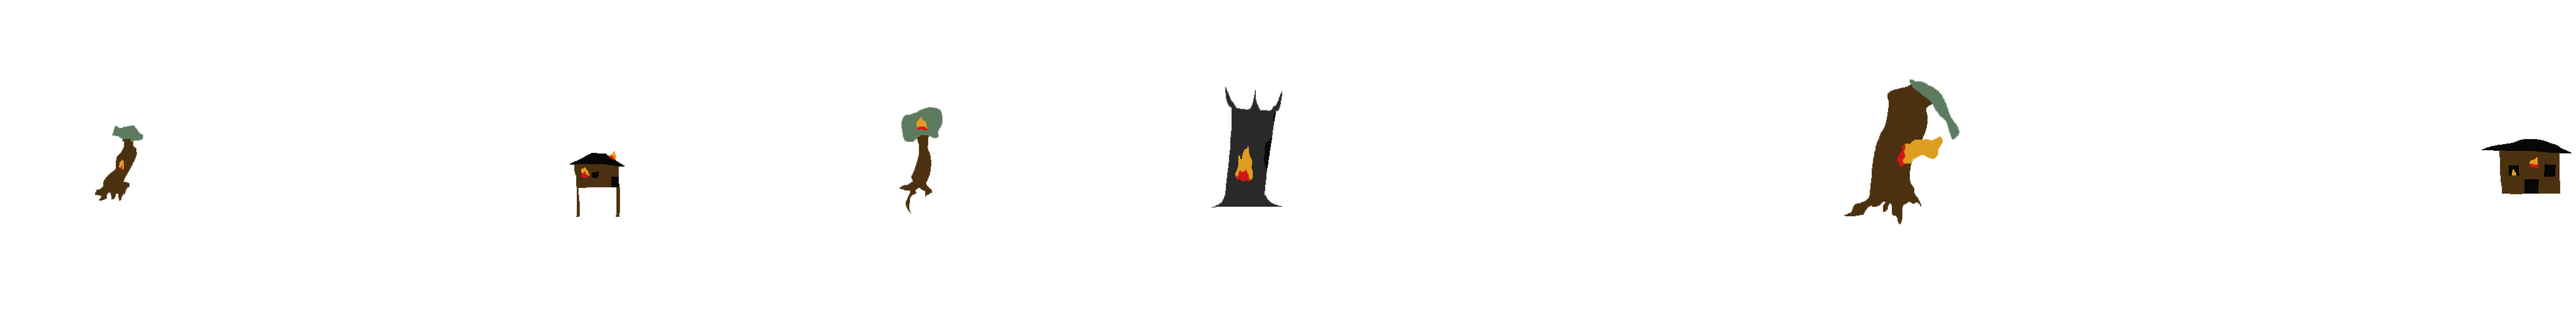
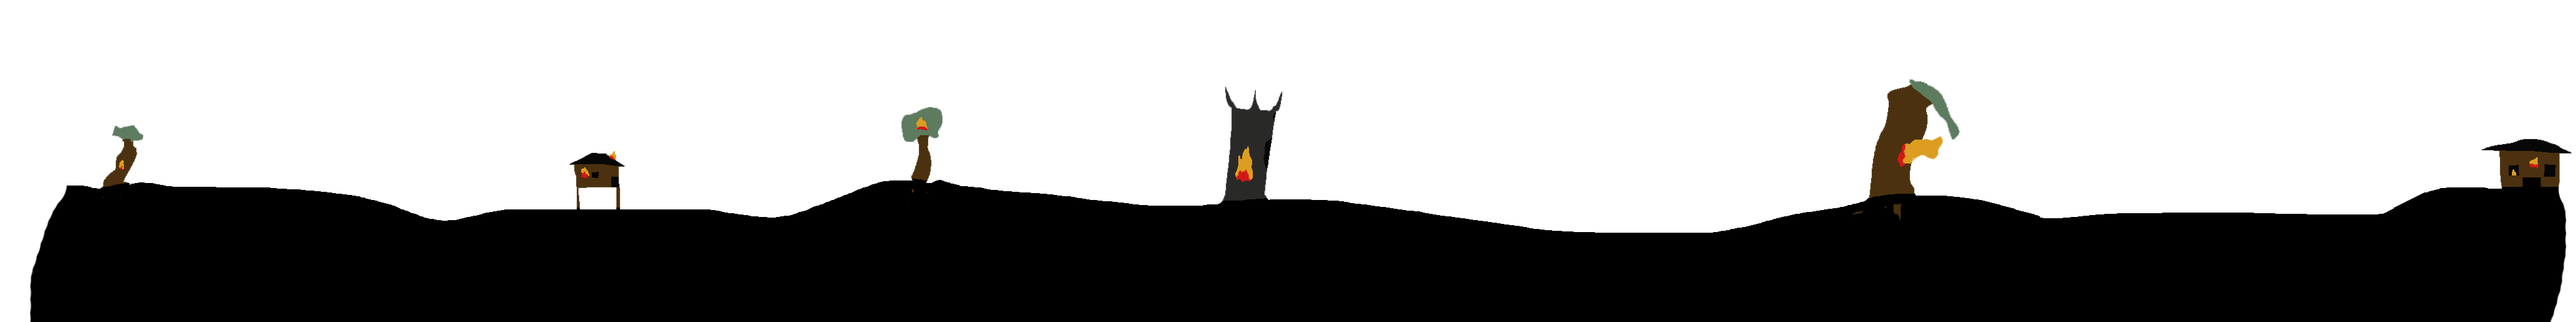
final finished

diff --git a/vgd126/js/data/cave.js b/vgd126/js/data/cave.js
@@ -2,14 +2,14 @@ var x=false;
 var caveData ={
 	info:{
 		layout:[
-			[0,8,8,8,8,8,8,8,8,8,8,8,8,8,8,8,8,8,8,8,8,8,8,8,8,8,8,8,8,8,8,8,8,8,2],
-			[2,8,1,8,1,1,8,1,1,1,1,1,1,8,8,1,8,8,1,1,1,1,1,1,1,1,1,1,1,1,1,1,1,1,2],
-			[2,x,x,7,x,x,7,x,x,x,x,x,x,7,7,x,1,1,x,x,x,x,x,x,x,x,x,x,x,x,x,x,x,x,2],
-			[6,x,x,x,x,x,x,x,x,x,x,x,x,x,x,x,x,x,x,x,x,x,x,x,x,x,x,x,x,x,x,x,x,x,2],
-			[6,x,x,x,x,x,x,x,x,x,x,x,x,x,x,x,x,x,x,x,x,x,x,x,x,x,x,x,x,x,x,x,x,x,2],
-			[5,x,x,x,x,x,x,x,x,x,x,x,x,x,x,x,x,x,x,x,x,x,x,x,x,x,x,x,x,x,x,x,x,x,2],
-			[x,x,x,x,x,x,x,x,x,x,x,x,x,x,x,x,x,x,x,x,x,x,x,x,x,x,x,x,x,x,x,x,x,x,2],
-			[x,x,x,x,x,x,x,x,x,x,x,x,x,x,x,x,x,x,x,x,x,x,x,x,x,x,x,x,x,x,x,x,x,x,2]
+			[2,4,4,4,4,4,4,4,4,4,4,4,4,4,4,4,4,4,4,4,4,4,4,4,4,4,4,4,4,4,4,4,4,4,4],
+			[3,1,1,1,1,1,1,1,1,1,1,1,1,1,1,1,1,1,1,1,1,1,1,1,1,1,1,1,1,1,1,1,1,1,3],
+			[3,x,x,x,x,x,x,x,x,x,x,x,x,x,x,x,x,x,x,x,x,x,x,x,x,x,x,x,x,x,x,x,x,x,3],
+			[3,x,x,x,x,x,x,x,x,x,x,x,x,x,x,x,x,x,x,x,x,x,x,x,x,x,x,x,x,x,x,x,x,x,3],
+			[1,x,x,x,x,x,x,x,x,x,x,x,x,x,x,x,x,x,x,x,x,x,x,x,x,x,x,x,x,x,x,x,x,x,3],
+			[x,x,x,x,x,x,x,x,x,x,x,x,x,x,x,x,x,x,x,x,x,x,x,x,x,x,x,x,x,x,x,x,x,x,3],
+			[x,x,x,x,x,x,x,x,x,x,x,x,x,x,x,x,x,x,x,x,x,x,x,x,x,x,x,x,x,x,x,x,x,x,3],
+			[x,x,x,x,x,x,x,x,x,x,x,x,x,x,x,x,x,x,x,x,x,x,x,x,x,x,x,x,x,x,x,x,x,x,3]
 			
 			
 		],
@@ -27,57 +27,38 @@ var caveData ={
 			{
 				fps:1,
 				cycle:false,
-				frames:[{width:64, height:64, startX:64, startY:0}]
-			},
-			{
-				fps:1,
-				cycle:false,
-				frames:[{width:64, height:64, startX:32, startY:0}]
-			},
-			{
-				fps:1,
-				cycle:false,
-				frames:[{width:64, height:64, startX:48, startY:0}]
+				frames:[{width:64, height:64, startX:0, startY:0}]
 			},
 			{
 				fps:1,
 				cycle:false,
 				frames:[{width:64, height:64, startX:64, startY:0}]
-			},
-			{
-				fps:1,
-				cycle:false,
-				frames:[{width:64, height:64, startX:80, startY:0}]
-			},
-			{
-				fps:1,
-				cycle:false,
-				frames:[{width:64, height:64, startX:96, startY:0}]
-			},
-			{
-				fps:1,
-				cycle:false,
-				frames:[{width:64, height:64, startX:112, startY:0}]
 			},
 			{
 				fps:1,
 				cycle:false,
 				frames:[{width:64, height:64, startX:128, startY:0}]
-			}
+			},
+			{
+				fps:1,
+				cycle:false,
+				frames:[{width:64, height:64, startX:192, startY:0}]
+			},
+			
 		]
 	}
 	var caveBackData ={
 		info:{
 			layout:[
-			[0,3,3,3,3,3,3,3,3,3,3,3,3,3,3,3,3,3,3,3,3,3,3,3,3,3,3,3,3,3,3,3,3,3,3],
-			[x,3,3,3,3,3,3,3,3,3,3,3,3,3,3,3,3,3,3,3,3,3,3,3,3,3,3,3,3,3,3,3,3,3,3],
-			[x,3,3,3,3,3,3,3,3,3,3,3,3,3,3,3,3,3,3,3,3,3,3,3,3,3,3,3,3,3,3,3,3,3,3],
-			[x,3,3,3,3,3,3,3,3,3,3,3,3,3,3,3,3,3,3,3,3,3,3,3,3,3,3,3,3,3,3,3,3,3,3],
-			[5,3,3,3,3,3,3,3,3,3,3,3,3,3,3,3,3,3,3,3,3,3,3,3,3,3,3,3,3,3,3,3,3,3,3],
-			[5,3,3,3,3,3,3,3,3,3,3,3,3,3,3,3,3,3,3,3,3,3,3,3,3,3,3,3,3,3,3,3,3,3,3],
-			[5,3,3,3,3,3,3,3,3,3,3,3,3,3,3,3,3,3,3,3,3,3,3,3,3,3,3,3,3,3,3,3,3,3,3],
+			[x,2,2,2,2,2,2,2,2,2,2,2,2,2,2,2,2,2,2,2,2,2,2,2,2,2,2,2,2,2,2,2,2,2,2],
+			[x,2,2,2,2,2,2,2,2,2,2,2,2,2,2,2,2,2,2,2,2,2,2,2,2,2,2,2,2,2,2,2,2,2,2],
+			[x,2,2,2,2,2,2,2,2,2,2,2,2,2,2,2,2,2,2,2,2,2,2,2,2,2,2,2,2,2,2,2,2,2,2],
+			[x,2,2,2,2,2,2,2,2,2,2,2,2,2,2,2,2,2,2,2,2,2,2,2,2,2,2,2,2,2,2,2,2,2,2],
+			[1,2,2,2,2,2,2,2,2,2,2,2,2,2,2,2,2,2,2,2,2,2,2,2,2,2,2,2,2,2,2,2,2,2,2],
+			[1,2,2,2,2,2,2,2,2,2,2,2,2,2,2,2,2,2,2,2,2,2,2,2,2,2,2,2,2,2,2,2,2,2,2],
+			[1,2,2,2,2,2,2,2,2,2,2,2,2,2,2,2,2,2,2,2,2,2,2,2,2,2,2,2,2,2,2,2,2,2,2],
 			],
-			src:`images/cave.png`,
+			src:`images/cavesprites.png`,
 		},
 		states:
 		[		
@@ -92,43 +73,14 @@ var caveData ={
 				{
 					fps:1,
 					cycle:false,
-					frames:[{width:64, height:64, startX:64, startY:0}]
+					frames:[{width:64, height:64, startX:256, startY:0}]
 				},
 				{
 					fps:1,
 					cycle:false,
-					frames:[{width:64, height:64, startX:32, startY:0}]
+					frames:[{width:64, height:64, startX:320, startY:0}]
 				},
-				{
-					fps:1,
-					cycle:false,
-					frames:[{width:64, height:64, startX:48, startY:0}]
-				},
-				{
-					fps:1,
-					cycle:false,
-					frames:[{width:64, height:64, startX:64, startY:0}]
-				},
-				{
-					fps:1,
-					cycle:false,
-					frames:[{width:64, height:64, startX:80, startY:0}]
-				},
-				{
-					fps:1,
-					cycle:false,
-					frames:[{width:64, height:64, startX:96, startY:0}]
-				},
-				{
-					fps:1,
-					cycle:false,
-					frames:[{width:64, height:64, startX:112, startY:0}]
-				},
-				{
-					fps:1,
-					cycle:false,
-					frames:[{width:64, height:64, startX:128, startY:0}]
-				}
+				
 			]
 		}
 
@@ -137,7 +89,7 @@ var caveData ={
 				layout:[
 					[0,8,8,8,8,8,8,8,8,8,8,8,8,8,8,8,8,8,8,8,8,8,8,8,8,8,8,8,8,8,8,8,8,8,2],
 					[2,8,1,8,1,1,8,1,1,1,1,1,1,8,8,1,8,8,1,1,1,1,1,1,1,1,1,1,1,1,1,1,1,1,2],
-					[2,x,x,7,x,x,7,x,x,x,x,x,x,7,7,x,1,1,x,x,x,x,x,x,x,x,x,x,x,x,x,x,x,x,2],
+					[2,x,x,x,x,x,x,x,x,x,x,x,x,x,x,x,x,x,x,x,x,x,x,x,x,x,x,x,x,x,x,x,x,x,2],
 					[6,x,x,x,x,x,x,x,x,x,x,x,x,x,x,x,x,x,x,x,x,x,x,x,x,x,x,x,x,x,x,x,x,x,2],
 					[6,x,x,x,x,x,x,x,x,x,x,x,x,x,x,x,x,x,x,x,x,x,x,x,x,x,x,x,x,x,x,x,x,x,2],
 					[x,x,x,x,x,x,x,x,x,x,x,x,x,x,x,x,x,x,x,x,x,x,x,x,x,x,x,x,x,x,x,x,x,x,2],
@@ -146,7 +98,7 @@ var caveData ={
 					
 					
 				],
-				src:`images/cave.png`,
+				src:`images/cavesprites.png`,
 			},
 			states:
 			[		
@@ -165,7 +117,7 @@ var caveData ={
 					{
 						fps:1,
 						cycle:false,
-						frames:[{width:64, height:64, startX:32, startY:0}]
+						frames:[{width:64, height:64, startX:22, startY:0}]
 					},
 					{
 						fps:1,

diff --git a/vgd126/js/gamestates/level1.js b/vgd126/js/gamestates/level1.js
@@ -9,6 +9,7 @@ var stage = new GameObject({width:canvas.width, height:canvas.height});
 //Avatar
 var wiz = new GameObject({width:128, height:128, spriteData:playerData}).makeSprite(playerData)
 wiz.force=1
+wiz.collisionPoints.bottom.y = wiz.height/2 -34
 
 //Very back background
 var sky = new GameObject({width:canvas.width, height:canvas.height, color:"cyan"})
@@ -19,7 +20,7 @@ var ground = new GameObject({width:canvas.width*10, height:64,y:canvas.height-32
 ground.img.src = "images/ground.png"
 
 //A platform
-var plat = new GameObject({width:256, height:64,y:canvas.height-200, color:"green"})
+var plat = new GameObject({width:256, height:64,y:canvas.height-200, color:"transparent"})
 plat.img.src = "images/platform.png"
 
 //A level object when it is moved other objects move with it.
@@ -82,10 +83,10 @@ var currentBullet = 0;
 for(let i=0; i<100; i++)
 {
 	bullets[i] = new GameObject({width:64, height:64})
-	//bullets[i].img.src="images/mrt.jpg"
-	bullets[i].makeSprite(playerData)
+	bullets[i].img.src="images/fireball.png"
+	//bullets[i].makeSprite(playerData)
 	bullets[i].y=-10000
-	bullets[i].changeState(`walk`)
+	//bullets[i].changeState(`walk`)
 }
 
 //console.log(bullets)
@@ -141,7 +142,7 @@ gameStates[`level1`] = function()
 		wiz.canJump = false;
 		wiz.vy = wiz.jumpHeight;
 		wiz.changeState(`jump`)
-		//sounds.play(`splode`,1)
+		sounds.play(`jump`,1)
 	}
 	shotTimer--;
 	if(shotTimer <=0)
@@ -163,11 +164,11 @@ gameStates[`level1`] = function()
 
 			bullets[currentBullet].vx = 5*wiz.dir;
 			bullets[currentBullet].world = level;
-			bullets[currentBullet].x = wiz.x-level.x + (wiz.dir * 96) ;
-			bullets[currentBullet].y = wiz.y + 20;
+			bullets[currentBullet].x = wiz.x-level.x + (wiz.dir * 20) ;
+			bullets[currentBullet].y = wiz.y - 20;
 			bullets[currentBullet].dir = wiz.dir;
 			
-			//sounds.play(`splode`,1)
+			sounds.play(`fireball`,0)
 
 			currentBullet++;
 			if(currentBullet>=bullets.length)
@@ -258,10 +259,11 @@ gameStates[`level1`] = function()
 	bg.drawStaticImage([0,0]);
 	
 	
+	
 	//rbg.render(`drawStaticImage`, [0,0])
 
 	rects.render(`drawRect`)
-	
+	plat.drawStaticImage([-plat.width/2,-plat.height/2-15]);
 
 	/*context.beginPath()
 	context.moveTo(0,wiz.bottom.y)
@@ -273,9 +275,10 @@ gameStates[`level1`] = function()
 	
 	for(let i=0; i<bullets.length; i++)
 	{
-		if(bullets[i].overlap(stage)) bullets[i].vy+=1;
+		//if(bullets[i].overlap(stage)) bullets[i].vy+=1;
 		bullets[i].move()
-		bullets[i].play(function(){return}).drawSprite()
+		//bullets[i].play(function(){return}).drawSprite()
+		bullets[i].drawStaticImage()
 		//bullets[i].angle+=10
 		while(g1.collide(bullets[i].bottom) && bullets[i].vy>=0)
 		{

diff --git a/vgd126/js/data/player.js b/vgd126/js/data/player.js
@@ -29,8 +29,11 @@ var playerData ={
 			cycle:true,
 			frames:
 			[
-				{width:64, height:64, startX:0, startY:0},
-				{width:64, height:64, startX:64, startY:0}
+				{width:64, height:64, startX:0, startY:256},
+				{width:64, height:64, startX:64, startY:256},
+				{width:64, height:64, startX:128, startY:256},
+				{width:64, height:64, startX:192, startY:256},
+				{width:64, height:64, startX:256, startY:256}
 				
 			]
 		},
@@ -43,9 +46,12 @@ var playerData ={
 			[
 				{width:64, height:64, startX:0, startY:0},
 				{width:64, height:64, startX:64, startY:0},
+				{width:64, height:64, startX:128, startY:0},
+				{width:64, height:64, startX:192, startY:0},
 				{width:64, height:64, startX:256, startY:0},
+				{width:64, height:64, startX:320, startY:0},
 				{width:64, height:64, startX:384, startY:0},
-				{width:64, height:64, startX:512, startY:0}
+				{width:64, height:64, startX:448, startY:0}
 			]
 		},
 		//The jump animation 
@@ -55,21 +61,22 @@ var playerData ={
 			cycle:false,
 			frames:
 			[
-				{width:64, height:64, startX:640, startY:0}
+				{width:64, height:64, startX:0, startY:192},
+				{width:64, height:64, startX:64, startY:192},
+				{width:64, height:64, startX:128, startY:192}
 			]
 		},
 		//The crouch animation 
 		crouch:
 		{
 			fps:15,
-			cycle:true,
+			cycle:false,
 			frames:
 			[
-				{width:64, height:64, startX:768, startY:0},
-				{width:64, height:64, startX:768, startY:0},
-				{width:64, height:64, startX:768, startY:0},
-				{width:64, height:64, startX:768, startY:0},
-				{width:64, height:64, startX:896, startY:0}
+				{width:64, height:64, startX:0, startY:128},
+				{width:64, height:64, startX:64, startY:128},
+				{width:64, height:64, startX:128, startY:128},
+				
 			]
 		},
 		//The attack animation 
@@ -80,16 +87,14 @@ var playerData ={
 			//width:300,
 			frames:
 			[
-				{width:64, height:64, startX:1024, startY:0},
-				{width:64, height:64, startX:1024, startY:0},
-				{width:64, height:64, startX:1024, startY:0},
-				{width:64, height:64, startX:1152, startY:0},
-				{width:64, height:64, startX:1152, startY:0},
-				{width:64, height:64, startX:1152, startY:0},
-				{width:64, height:64, startX:1152, startY:0}
+				{width:64, height:64, startX:0, startY:64},
+				{width:64, height:64, startX:64, startY:64},
+				{width:64, height:64, startX:128, startY:64}
 				
 			]
 		}
+
 	}
 		
 }
+

diff --git a/vgd126/js/gamestates/menu.js b/vgd126/js/gamestates/menu.js
@@ -6,7 +6,7 @@ var startButton = new GameObject({width:128, height:128}).makeSprite(buttonData)
 
 
 var menuBackground = new GameObject();
-menuBackground.img.src = "images/mrt.jpg"
+menuBackground.img.src = "images/titlescreen.png"
 menuBackground.width=canvas.width
 menuBackground.height=canvas.height
 
@@ -19,6 +19,8 @@ gameStates[`menu`] =function(){
 		{
 			//Changes to the game state
 			gameStates.changeState(`level1`)
+			sounds.play('backgroundmusic',0)
+			sounds["backgroundmusic"].loop = true
 		}
 
 		//Hover Effect Graffic

diff --git a/vgd126/js/data/button.js b/vgd126/js/data/button.js
@@ -1,6 +1,6 @@
 var buttonData = {
     info:{
-        src:"images/snale.png"
+        src:"images/playbutton.png"
     },
     states:{
         idle:{
@@ -16,7 +16,7 @@ var buttonData = {
             cycle:false,
             frames:
             [
-                {width:128, height:128, startX:1024, startY:0}
+                {width:128, height:128, startX:128, startY:0}
             ]
         }
     }

diff --git a/vgd126/index.html b/vgd126/index.html
@@ -17,6 +17,9 @@
 	<!--Audio Files-->
 		<!--sounds/-->
 		<audio src="sounds/splode.mp3" name="splode"></audio>
+		<audio src="sounds/background-music.mp3" name="backgroundmusic"></audio>
+		<audio src="sounds/fireball.mp3" name="fireball"></audio>
+		<audio src="sounds/jump.mp3" name="jump"></audio>
 
 	<!--JavaScript Files-->
 
